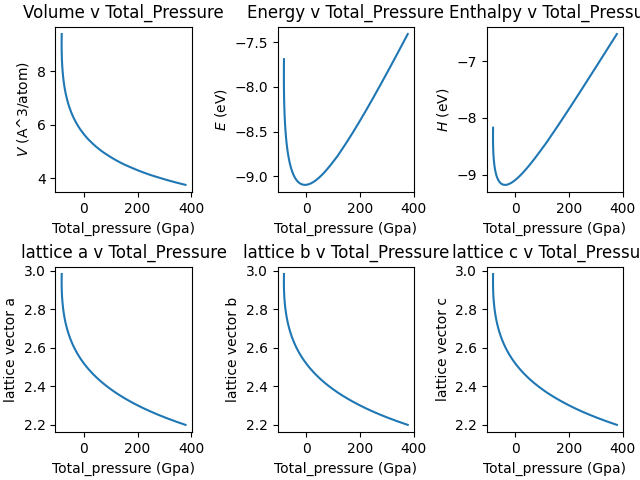
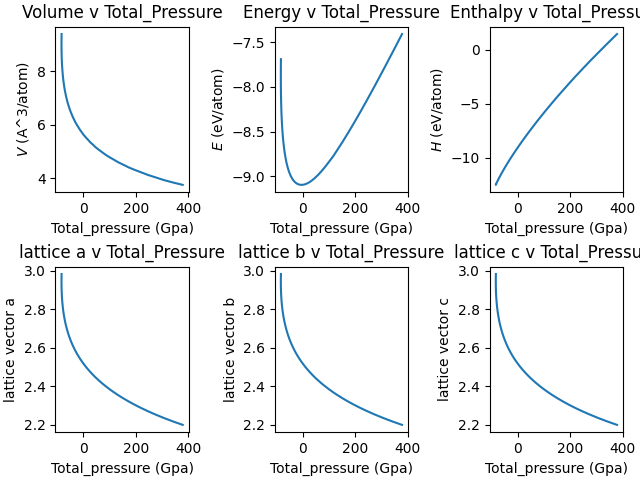
finished eos for t4 diamond

diff --git a/tutorials/t4_equation_of_state.py b/tutorials/t4_equation_of_state.py
@@ -25,9 +25,9 @@ def column_text_read(file_name):
 
     for line in content:
         elements = line.split()
-        data[0, n] = float(elements[0])  #volume/2 A^3
-        data[1, n] = float(elements[1])  #energy/2 eV
-        data[2, n] = float(elements[2])  #enthalpy eV
+        data[0, n] = float(elements[0])  #volume A^3/atom
+        data[1, n] = float(elements[1])  #energy/2 eV/atom
+        data[2, n] = float(elements[2])  #enthalpy eV/atom
         data[3, n] = float(elements[3])  #total pressure GPa
         data[4, n] = float(elements[4])  #lat a
         data[5, n] = float(elements[5])  #lat b
@@ -52,9 +52,9 @@ def plot_graphs(data, display_graph):
             axes[row_index][column_index].set_xlabel('Total_pressure (Gpa)')
             axes[0][0].set_ylabel(r'$V$ (A^3/atom)')
             axes[0][0].set_title('Volume v Total_Pressure')
-            axes[0][1].set_ylabel(r'$E$ (eV)')
+            axes[0][1].set_ylabel(r'$E$ (eV/atom)')
             axes[0][1].set_title('Energy v Total_Pressure')
-            axes[0][2].set_ylabel(r'$H$ (eV)')
+            axes[0][2].set_ylabel(r'$H$ (eV/atom)')
             axes[0][2].set_title('Enthalpy v Total_Pressure')
             axes[1][0].set_ylabel('lattice vector a')
             axes[1][0].set_title('lattice a v Total_Pressure')

diff --git a/tutorials/eos_calculation/run_eos_calc.py b/tutorials/eos_calculation/run_eos_calc.py
@@ -19,7 +19,7 @@ def parse_file_name(file_name):
     return symbol, structure, acronym  # 1
 
 
-file_name = "volume_energy_C"
+file_name = "pres_vs_vol_Diamond_expansion"
 #symbol, structure, acronym = parse_file_name(file_name)
 array = two_column_text_read(file_name)  # 2
 statistics = bivariate_statistics(array)  # 4
@@ -97,7 +97,7 @@ y_max = (0.003)  # (max(array_2[1]) + (max(array_2[0]) * 0.00010))
 plt.xlim(x_min, x_max)
 #plt.ylim(y_min, y_max)
 plt.xlabel(r'$V$ (Å$^3$/atom)')
-plt.ylabel(r'$E$ (eV/atom)')
+plt.ylabel(r'$P$ (GPa)')
 bulk_modulus_gpa = convert_units(bulk_modulus, "rb/cb")  # 7
 eq_vol = fit_parameters[3]  # array_2[0][array_2[1].index(min(array_2[1]))]
 array[1] = array[1] - fit_parameters[0]
@@ -113,4 +113,4 @@ plt.tight_layout()
 if display_graph:
     plt.show()  # fix something above^^
 elif not display_graph:
-    plt.savefig("ev_of_carbon_.murnaghan_eos.png")
+    plt.savefig("pv_of_diamond_expansion.murnaghan_eos.png")

diff --git a/tutorials/eos_calculation/bivariate_statistics.py b/tutorials/eos_calculation/bivariate_statistics.py
@@ -18,4 +18,4 @@ def bivariate_statistics(data):
 
 if __name__ == '__main__':
     from two_column_text_read import two_column_text_read
-    print(bivariate_statistics(two_column_text_read('volume_energy_C')))
+    print(bivariate_statistics(two_column_text_read('energy_volume_Diamond')))

diff --git a/tutorials/eos_calculation/two_column_text_read.py b/tutorials/eos_calculation/two_column_text_read.py
@@ -21,4 +21,4 @@ def two_column_text_read(file_name):
     return data
 
 if __name__ == '__main__':
-    print(two_column_text_read('volume_energy_C'))
+    print(two_column_text_read('energy_volume_Diamond'))
